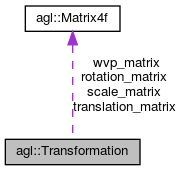
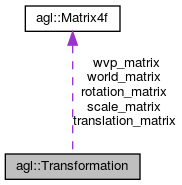
Fix rotation bug

Changed region(s): [[0.0275, 0.0, 0.9615, 0.9942]]

diff --git a/documentation/html/Transformation_8h_source.html b/documentation/html/Transformation_8h_source.html
@@ -90,7 +90,8 @@ $(document).ready(function(){initNavTree('Transformation_8h_source.html','');});
 <div class="title">Transformation.h</div>  </div>
 </div><!--header-->
 <div class="contents">
-<div class="fragment"><div class="line"><a name="l00001"></a><span class="lineno">    1</span>&#160;<span class="preprocessor">#ifndef TRASNFORMATION_H</span></div><div class="line"><a name="l00002"></a><span class="lineno">    2</span>&#160;<span class="preprocessor">#define TRANSFORMATION_H</span></div><div class="line"><a name="l00003"></a><span class="lineno">    3</span>&#160;</div><div class="line"><a name="l00004"></a><span class="lineno">    4</span>&#160;<span class="preprocessor">#include &quot;Point.h&quot;</span></div><div class="line"><a name="l00005"></a><span class="lineno">    5</span>&#160;<span class="preprocessor">#include &quot;Matrix4f.h&quot;</span></div><div class="line"><a name="l00006"></a><span class="lineno">    6</span>&#160;</div><div class="line"><a name="l00007"></a><span class="lineno">    7</span>&#160;<span class="keyword">namespace </span>agl {</div><div class="line"><a name="l00008"></a><span class="lineno"><a class="line" href="classagl_1_1Transformation.html">    8</a></span>&#160;  <span class="keyword">class </span><a class="code" href="classagl_1_1Transformation.html">Transformation</a> {</div><div class="line"><a name="l00009"></a><span class="lineno">    9</span>&#160;    <span class="keyword">public</span>:</div><div class="line"><a name="l00013"></a><span class="lineno"><a class="line" href="classagl_1_1Transformation.html#a214021890dbcbf0ffa9dd153081c097a">   13</a></span>&#160;    <a class="code" href="classagl_1_1Matrix4f.html">Matrix4f</a> <a class="code" href="classagl_1_1Transformation.html#a214021890dbcbf0ffa9dd153081c097a">translation_matrix</a>;</div><div class="line"><a name="l00014"></a><span class="lineno">   14</span>&#160;    </div><div class="line"><a name="l00018"></a><span class="lineno"><a class="line" href="classagl_1_1Transformation.html#a986f0d47080a364fc7a2b098eb1b16a7">   18</a></span>&#160;    <a class="code" href="classagl_1_1Matrix4f.html">Matrix4f</a> <a class="code" href="classagl_1_1Transformation.html#a986f0d47080a364fc7a2b098eb1b16a7">scale_matrix</a>;</div><div class="line"><a name="l00019"></a><span class="lineno">   19</span>&#160;    </div><div class="line"><a name="l00020"></a><span class="lineno">   20</span>&#160;    <a class="code" href="classagl_1_1Matrix4f.html">Matrix4f</a> rotation_matrix;</div><div class="line"><a name="l00021"></a><span class="lineno">   21</span>&#160;    </div><div class="line"><a name="l00022"></a><span class="lineno">   22</span>&#160;    <a class="code" href="classagl_1_1Matrix4f.html">Matrix4f</a> wvp_matrix;</div><div class="line"><a name="l00023"></a><span class="lineno">   23</span>&#160;    </div><div class="line"><a name="l00024"></a><span class="lineno">   24</span>&#160;    <a class="code" href="classagl_1_1Transformation.html">Transformation</a>();</div><div class="line"><a name="l00025"></a><span class="lineno">   25</span>&#160;    </div><div class="line"><a name="l00026"></a><span class="lineno">   26</span>&#160;    <span class="keywordtype">bool</span> init();</div><div class="line"><a name="l00027"></a><span class="lineno">   27</span>&#160;    </div><div class="line"><a name="l00028"></a><span class="lineno">   28</span>&#160;    <span class="keywordtype">void</span> translate(<a class="code" href="classagl_1_1Point.html">Point</a> p);</div><div class="line"><a name="l00029"></a><span class="lineno">   29</span>&#160;    </div><div class="line"><a name="l00030"></a><span class="lineno">   30</span>&#160;    <span class="keywordtype">void</span> scale(<a class="code" href="classagl_1_1Point.html">Point</a> p);</div><div class="line"><a name="l00031"></a><span class="lineno">   31</span>&#160;    </div><div class="line"><a name="l00032"></a><span class="lineno">   32</span>&#160;    <span class="keywordtype">void</span> scale(<span class="keywordtype">float</span> f);</div><div class="line"><a name="l00033"></a><span class="lineno">   33</span>&#160;    </div><div class="line"><a name="l00034"></a><span class="lineno">   34</span>&#160;    <span class="keywordtype">void</span> rotate(<a class="code" href="classagl_1_1Point.html">Point</a> p);</div><div class="line"><a name="l00035"></a><span class="lineno">   35</span>&#160;    </div><div class="line"><a name="l00036"></a><span class="lineno">   36</span>&#160;    <span class="keywordtype">void</span> calculate_wvp_matrix(<a class="code" href="classagl_1_1Matrix4f.html">Matrix4f</a>* vp_matrix);</div><div class="line"><a name="l00037"></a><span class="lineno">   37</span>&#160;  };</div><div class="line"><a name="l00038"></a><span class="lineno">   38</span>&#160;}</div><div class="line"><a name="l00039"></a><span class="lineno">   39</span>&#160;</div><div class="line"><a name="l00040"></a><span class="lineno">   40</span>&#160;<span class="preprocessor">#endif</span></div><div class="ttc" id="classagl_1_1Point_html"><div class="ttname"><a href="classagl_1_1Point.html">agl::Point</a></div><div class="ttdef"><b>Definition:</b> Point.h:5</div></div>
+<div class="fragment"><div class="line"><a name="l00001"></a><span class="lineno">    1</span>&#160;<span class="preprocessor">#ifndef TRASNFORMATION_H</span></div><div class="line"><a name="l00002"></a><span class="lineno">    2</span>&#160;<span class="preprocessor">#define TRANSFORMATION_H</span></div><div class="line"><a name="l00003"></a><span class="lineno">    3</span>&#160;</div><div class="line"><a name="l00004"></a><span class="lineno">    4</span>&#160;<span class="preprocessor">#include &quot;Point.h&quot;</span></div><div class="line"><a name="l00005"></a><span class="lineno">    5</span>&#160;<span class="preprocessor">#include &quot;Matrix4f.h&quot;</span></div><div class="line"><a name="l00006"></a><span class="lineno">    6</span>&#160;</div><div class="line"><a name="l00007"></a><span class="lineno">    7</span>&#160;<span class="keyword">namespace </span>agl {</div><div class="line"><a name="l00008"></a><span class="lineno"><a class="line" href="classagl_1_1Transformation.html">    8</a></span>&#160;  <span class="keyword">class </span><a class="code" href="classagl_1_1Transformation.html">Transformation</a> {</div><div class="line"><a name="l00009"></a><span class="lineno">    9</span>&#160;    <span class="keyword">public</span>:</div><div class="line"><a name="l00013"></a><span class="lineno"><a class="line" href="classagl_1_1Transformation.html#a214021890dbcbf0ffa9dd153081c097a">   13</a></span>&#160;    <a class="code" href="classagl_1_1Matrix4f.html">Matrix4f</a> <a class="code" href="classagl_1_1Transformation.html#a214021890dbcbf0ffa9dd153081c097a">translation_matrix</a>;</div><div class="line"><a name="l00014"></a><span class="lineno">   14</span>&#160;    </div><div class="line"><a name="l00018"></a><span class="lineno"><a class="line" href="classagl_1_1Transformation.html#a986f0d47080a364fc7a2b098eb1b16a7">   18</a></span>&#160;    <a class="code" href="classagl_1_1Matrix4f.html">Matrix4f</a> <a class="code" href="classagl_1_1Transformation.html#a986f0d47080a364fc7a2b098eb1b16a7">scale_matrix</a>;</div><div class="line"><a name="l00019"></a><span class="lineno">   19</span>&#160;    </div><div class="line"><a name="l00023"></a><span class="lineno"><a class="line" href="classagl_1_1Transformation.html#a2dc5ac8d2ac0bc80d6e95183eec1fbdc">   23</a></span>&#160;    <a class="code" href="classagl_1_1Matrix4f.html">Matrix4f</a> <a class="code" href="classagl_1_1Transformation.html#a2dc5ac8d2ac0bc80d6e95183eec1fbdc">rotation_matrix</a>;</div><div class="line"><a name="l00024"></a><span class="lineno">   24</span>&#160;</div><div class="line"><a name="l00025"></a><span class="lineno">   25</span>&#160;    <a class="code" href="classagl_1_1Matrix4f.html">Matrix4f</a> world_matrix;</div><div class="line"><a name="l00026"></a><span class="lineno">   26</span>&#160;    </div><div class="line"><a name="l00027"></a><span class="lineno">   27</span>&#160;    <a class="code" href="classagl_1_1Matrix4f.html">Matrix4f</a> wvp_matrix;</div><div class="line"><a name="l00028"></a><span class="lineno">   28</span>&#160;    </div><div class="line"><a name="l00029"></a><span class="lineno">   29</span>&#160;    <a class="code" href="classagl_1_1Transformation.html">Transformation</a>();</div><div class="line"><a name="l00030"></a><span class="lineno">   30</span>&#160;    </div><div class="line"><a name="l00031"></a><span class="lineno">   31</span>&#160;    <span class="keywordtype">bool</span> init();</div><div class="line"><a name="l00032"></a><span class="lineno">   32</span>&#160;    </div><div class="line"><a name="l00033"></a><span class="lineno">   33</span>&#160;    <span class="keywordtype">void</span> translate(<a class="code" href="classagl_1_1Point.html">Point</a> p);</div><div class="line"><a name="l00034"></a><span class="lineno">   34</span>&#160;    </div><div class="line"><a name="l00035"></a><span class="lineno">   35</span>&#160;    <span class="keywordtype">void</span> scale(<a class="code" href="classagl_1_1Point.html">Point</a> p);</div><div class="line"><a name="l00036"></a><span class="lineno">   36</span>&#160;    </div><div class="line"><a name="l00037"></a><span class="lineno">   37</span>&#160;    <span class="keywordtype">void</span> scale(<span class="keywordtype">float</span> f);</div><div class="line"><a name="l00038"></a><span class="lineno">   38</span>&#160;    </div><div class="line"><a name="l00039"></a><span class="lineno">   39</span>&#160;    <span class="keywordtype">void</span> rotate(<a class="code" href="classagl_1_1Point.html">Point</a> p);</div><div class="line"><a name="l00040"></a><span class="lineno">   40</span>&#160;    </div><div class="line"><a name="l00041"></a><span class="lineno">   41</span>&#160;    <span class="keywordtype">void</span> calculate_world_matrix();</div><div class="line"><a name="l00042"></a><span class="lineno">   42</span>&#160;    </div><div class="line"><a name="l00043"></a><span class="lineno">   43</span>&#160;    <span class="keywordtype">void</span> calculate_wvp_matrix(<a class="code" href="classagl_1_1Matrix4f.html">Matrix4f</a>* vp_matrix);</div><div class="line"><a name="l00044"></a><span class="lineno">   44</span>&#160;  };</div><div class="line"><a name="l00045"></a><span class="lineno">   45</span>&#160;}</div><div class="line"><a name="l00046"></a><span class="lineno">   46</span>&#160;</div><div class="line"><a name="l00047"></a><span class="lineno">   47</span>&#160;<span class="preprocessor">#endif</span></div><div class="ttc" id="classagl_1_1Point_html"><div class="ttname"><a href="classagl_1_1Point.html">agl::Point</a></div><div class="ttdef"><b>Definition:</b> Point.h:5</div></div>
+<div class="ttc" id="classagl_1_1Transformation_html_a2dc5ac8d2ac0bc80d6e95183eec1fbdc"><div class="ttname"><a href="classagl_1_1Transformation.html#a2dc5ac8d2ac0bc80d6e95183eec1fbdc">agl::Transformation::rotation_matrix</a></div><div class="ttdeci">Matrix4f rotation_matrix</div><div class="ttdef"><b>Definition:</b> Transformation.h:23</div></div>
 <div class="ttc" id="classagl_1_1Transformation_html_a214021890dbcbf0ffa9dd153081c097a"><div class="ttname"><a href="classagl_1_1Transformation.html#a214021890dbcbf0ffa9dd153081c097a">agl::Transformation::translation_matrix</a></div><div class="ttdeci">Matrix4f translation_matrix</div><div class="ttdef"><b>Definition:</b> Transformation.h:13</div></div>
 <div class="ttc" id="classagl_1_1Transformation_html"><div class="ttname"><a href="classagl_1_1Transformation.html">agl::Transformation</a></div><div class="ttdef"><b>Definition:</b> Transformation.h:8</div></div>
 <div class="ttc" id="classagl_1_1Matrix4f_html"><div class="ttname"><a href="classagl_1_1Matrix4f.html">agl::Matrix4f</a></div><div class="ttdef"><b>Definition:</b> Matrix4f.h:5</div></div>

diff --git a/documentation/html/classagl_1_1Transformation-members.html b/documentation/html/classagl_1_1Transformation-members.html
@@ -93,16 +93,18 @@ $(document).ready(function(){initNavTree('classagl_1_1Transformation.html','');}
 
 <p>This is the complete list of members for <a class="el" href="classagl_1_1Transformation.html">agl::Transformation</a>, including all inherited members.</p>
 <table class="directory">
-  <tr bgcolor="#f0f0f0" class="even"><td class="entry"><b>calculate_wvp_matrix</b>(Matrix4f *vp_matrix) (defined in <a class="el" href="classagl_1_1Transformation.html">agl::Transformation</a>)</td><td class="entry"><a class="el" href="classagl_1_1Transformation.html">agl::Transformation</a></td><td class="entry"></td></tr>
-  <tr bgcolor="#f0f0f0"><td class="entry"><b>init</b>() (defined in <a class="el" href="classagl_1_1Transformation.html">agl::Transformation</a>)</td><td class="entry"><a class="el" href="classagl_1_1Transformation.html">agl::Transformation</a></td><td class="entry"></td></tr>
-  <tr bgcolor="#f0f0f0" class="even"><td class="entry"><b>rotate</b>(Point p) (defined in <a class="el" href="classagl_1_1Transformation.html">agl::Transformation</a>)</td><td class="entry"><a class="el" href="classagl_1_1Transformation.html">agl::Transformation</a></td><td class="entry"></td></tr>
-  <tr bgcolor="#f0f0f0"><td class="entry"><b>rotation_matrix</b> (defined in <a class="el" href="classagl_1_1Transformation.html">agl::Transformation</a>)</td><td class="entry"><a class="el" href="classagl_1_1Transformation.html">agl::Transformation</a></td><td class="entry"></td></tr>
-  <tr bgcolor="#f0f0f0" class="even"><td class="entry"><b>scale</b>(Point p) (defined in <a class="el" href="classagl_1_1Transformation.html">agl::Transformation</a>)</td><td class="entry"><a class="el" href="classagl_1_1Transformation.html">agl::Transformation</a></td><td class="entry"></td></tr>
-  <tr bgcolor="#f0f0f0"><td class="entry"><b>scale</b>(float f) (defined in <a class="el" href="classagl_1_1Transformation.html">agl::Transformation</a>)</td><td class="entry"><a class="el" href="classagl_1_1Transformation.html">agl::Transformation</a></td><td class="entry"></td></tr>
-  <tr class="even"><td class="entry"><a class="el" href="classagl_1_1Transformation.html#a986f0d47080a364fc7a2b098eb1b16a7">scale_matrix</a></td><td class="entry"><a class="el" href="classagl_1_1Transformation.html">agl::Transformation</a></td><td class="entry"></td></tr>
-  <tr bgcolor="#f0f0f0"><td class="entry"><b>Transformation</b>() (defined in <a class="el" href="classagl_1_1Transformation.html">agl::Transformation</a>)</td><td class="entry"><a class="el" href="classagl_1_1Transformation.html">agl::Transformation</a></td><td class="entry"></td></tr>
-  <tr bgcolor="#f0f0f0" class="even"><td class="entry"><b>translate</b>(Point p) (defined in <a class="el" href="classagl_1_1Transformation.html">agl::Transformation</a>)</td><td class="entry"><a class="el" href="classagl_1_1Transformation.html">agl::Transformation</a></td><td class="entry"></td></tr>
-  <tr><td class="entry"><a class="el" href="classagl_1_1Transformation.html#a214021890dbcbf0ffa9dd153081c097a">translation_matrix</a></td><td class="entry"><a class="el" href="classagl_1_1Transformation.html">agl::Transformation</a></td><td class="entry"></td></tr>
+  <tr bgcolor="#f0f0f0" class="even"><td class="entry"><b>calculate_world_matrix</b>() (defined in <a class="el" href="classagl_1_1Transformation.html">agl::Transformation</a>)</td><td class="entry"><a class="el" href="classagl_1_1Transformation.html">agl::Transformation</a></td><td class="entry"></td></tr>
+  <tr bgcolor="#f0f0f0"><td class="entry"><b>calculate_wvp_matrix</b>(Matrix4f *vp_matrix) (defined in <a class="el" href="classagl_1_1Transformation.html">agl::Transformation</a>)</td><td class="entry"><a class="el" href="classagl_1_1Transformation.html">agl::Transformation</a></td><td class="entry"></td></tr>
+  <tr bgcolor="#f0f0f0" class="even"><td class="entry"><b>init</b>() (defined in <a class="el" href="classagl_1_1Transformation.html">agl::Transformation</a>)</td><td class="entry"><a class="el" href="classagl_1_1Transformation.html">agl::Transformation</a></td><td class="entry"></td></tr>
+  <tr bgcolor="#f0f0f0"><td class="entry"><b>rotate</b>(Point p) (defined in <a class="el" href="classagl_1_1Transformation.html">agl::Transformation</a>)</td><td class="entry"><a class="el" href="classagl_1_1Transformation.html">agl::Transformation</a></td><td class="entry"></td></tr>
+  <tr class="even"><td class="entry"><a class="el" href="classagl_1_1Transformation.html#a2dc5ac8d2ac0bc80d6e95183eec1fbdc">rotation_matrix</a></td><td class="entry"><a class="el" href="classagl_1_1Transformation.html">agl::Transformation</a></td><td class="entry"></td></tr>
+  <tr bgcolor="#f0f0f0"><td class="entry"><b>scale</b>(Point p) (defined in <a class="el" href="classagl_1_1Transformation.html">agl::Transformation</a>)</td><td class="entry"><a class="el" href="classagl_1_1Transformation.html">agl::Transformation</a></td><td class="entry"></td></tr>
+  <tr bgcolor="#f0f0f0" class="even"><td class="entry"><b>scale</b>(float f) (defined in <a class="el" href="classagl_1_1Transformation.html">agl::Transformation</a>)</td><td class="entry"><a class="el" href="classagl_1_1Transformation.html">agl::Transformation</a></td><td class="entry"></td></tr>
+  <tr><td class="entry"><a class="el" href="classagl_1_1Transformation.html#a986f0d47080a364fc7a2b098eb1b16a7">scale_matrix</a></td><td class="entry"><a class="el" href="classagl_1_1Transformation.html">agl::Transformation</a></td><td class="entry"></td></tr>
+  <tr bgcolor="#f0f0f0" class="even"><td class="entry"><b>Transformation</b>() (defined in <a class="el" href="classagl_1_1Transformation.html">agl::Transformation</a>)</td><td class="entry"><a class="el" href="classagl_1_1Transformation.html">agl::Transformation</a></td><td class="entry"></td></tr>
+  <tr bgcolor="#f0f0f0"><td class="entry"><b>translate</b>(Point p) (defined in <a class="el" href="classagl_1_1Transformation.html">agl::Transformation</a>)</td><td class="entry"><a class="el" href="classagl_1_1Transformation.html">agl::Transformation</a></td><td class="entry"></td></tr>
+  <tr class="even"><td class="entry"><a class="el" href="classagl_1_1Transformation.html#a214021890dbcbf0ffa9dd153081c097a">translation_matrix</a></td><td class="entry"><a class="el" href="classagl_1_1Transformation.html">agl::Transformation</a></td><td class="entry"></td></tr>
+  <tr bgcolor="#f0f0f0"><td class="entry"><b>world_matrix</b> (defined in <a class="el" href="classagl_1_1Transformation.html">agl::Transformation</a>)</td><td class="entry"><a class="el" href="classagl_1_1Transformation.html">agl::Transformation</a></td><td class="entry"></td></tr>
   <tr bgcolor="#f0f0f0" class="even"><td class="entry"><b>wvp_matrix</b> (defined in <a class="el" href="classagl_1_1Transformation.html">agl::Transformation</a>)</td><td class="entry"><a class="el" href="classagl_1_1Transformation.html">agl::Transformation</a></td><td class="entry"></td></tr>
 </table></div><!-- contents -->
 </div><!-- doc-content -->

diff --git a/documentation/html/classagl_1_1Transformation.html b/documentation/html/classagl_1_1Transformation.html
@@ -99,7 +99,7 @@ Collaboration diagram for agl::Transformation:</div>
 <div class="dyncontent">
 <div class="center"><img src="classagl_1_1Transformation__coll__graph.png" border="0" usemap="#agl_1_1Transformation_coll__map" alt="Collaboration graph"/></div>
 <map name="agl_1_1Transformation_coll__map" id="agl_1_1Transformation_coll__map">
-<area shape="rect"  title=" " alt="" coords="5,139,140,165"/>
+<area shape="rect"  title=" " alt="" coords="5,153,140,180"/>
 <area shape="rect"  href="classagl_1_1Matrix4f.html" title=" " alt="" coords="25,5,120,32"/>
 </map>
 <center><span class="legend">[<a target="top" href="graph_legend.html">legend</a>]</span></center></div>
@@ -121,6 +121,9 @@ void&#160;</td><td class="memItemRight" valign="bottom"><b>scale</b> (float f)</
 <tr class="memitem:ad313b2977a91aae7879c816f8cd00dc7"><td class="memItemLeft" align="right" valign="top"><a id="ad313b2977a91aae7879c816f8cd00dc7"></a>
 void&#160;</td><td class="memItemRight" valign="bottom"><b>rotate</b> (<a class="el" href="classagl_1_1Point.html">Point</a> p)</td></tr>
 <tr class="separator:ad313b2977a91aae7879c816f8cd00dc7"><td class="memSeparator" colspan="2">&#160;</td></tr>
+<tr class="memitem:a8b45a51aea95901c9a82730a807795a7"><td class="memItemLeft" align="right" valign="top"><a id="a8b45a51aea95901c9a82730a807795a7"></a>
+void&#160;</td><td class="memItemRight" valign="bottom"><b>calculate_world_matrix</b> ()</td></tr>
+<tr class="separator:a8b45a51aea95901c9a82730a807795a7"><td class="memSeparator" colspan="2">&#160;</td></tr>
 <tr class="memitem:adf068efbc01592a6fbe5e28660953dec"><td class="memItemLeft" align="right" valign="top"><a id="adf068efbc01592a6fbe5e28660953dec"></a>
 void&#160;</td><td class="memItemRight" valign="bottom"><b>calculate_wvp_matrix</b> (<a class="el" href="classagl_1_1Matrix4f.html">Matrix4f</a> *vp_matrix)</td></tr>
 <tr class="separator:adf068efbc01592a6fbe5e28660953dec"><td class="memSeparator" colspan="2">&#160;</td></tr>
@@ -131,14 +134,31 @@ Public Attributes</h2></td></tr>
 <tr class="separator:a214021890dbcbf0ffa9dd153081c097a"><td class="memSeparator" colspan="2">&#160;</td></tr>
 <tr class="memitem:a986f0d47080a364fc7a2b098eb1b16a7"><td class="memItemLeft" align="right" valign="top"><a class="el" href="classagl_1_1Matrix4f.html">Matrix4f</a>&#160;</td><td class="memItemRight" valign="bottom"><a class="el" href="classagl_1_1Transformation.html#a986f0d47080a364fc7a2b098eb1b16a7">scale_matrix</a></td></tr>
 <tr class="separator:a986f0d47080a364fc7a2b098eb1b16a7"><td class="memSeparator" colspan="2">&#160;</td></tr>
-<tr class="memitem:a2dc5ac8d2ac0bc80d6e95183eec1fbdc"><td class="memItemLeft" align="right" valign="top"><a id="a2dc5ac8d2ac0bc80d6e95183eec1fbdc"></a>
-<a class="el" href="classagl_1_1Matrix4f.html">Matrix4f</a>&#160;</td><td class="memItemRight" valign="bottom"><b>rotation_matrix</b></td></tr>
+<tr class="memitem:a2dc5ac8d2ac0bc80d6e95183eec1fbdc"><td class="memItemLeft" align="right" valign="top"><a class="el" href="classagl_1_1Matrix4f.html">Matrix4f</a>&#160;</td><td class="memItemRight" valign="bottom"><a class="el" href="classagl_1_1Transformation.html#a2dc5ac8d2ac0bc80d6e95183eec1fbdc">rotation_matrix</a></td></tr>
 <tr class="separator:a2dc5ac8d2ac0bc80d6e95183eec1fbdc"><td class="memSeparator" colspan="2">&#160;</td></tr>
+<tr class="memitem:a5f25553543cf8713c79d8a74bca29d2c"><td class="memItemLeft" align="right" valign="top"><a id="a5f25553543cf8713c79d8a74bca29d2c"></a>
+<a class="el" href="classagl_1_1Matrix4f.html">Matrix4f</a>&#160;</td><td class="memItemRight" valign="bottom"><b>world_matrix</b></td></tr>
+<tr class="separator:a5f25553543cf8713c79d8a74bca29d2c"><td class="memSeparator" colspan="2">&#160;</td></tr>
 <tr class="memitem:a59c2efee483f4fb596ce820a1d6a689b"><td class="memItemLeft" align="right" valign="top"><a id="a59c2efee483f4fb596ce820a1d6a689b"></a>
 <a class="el" href="classagl_1_1Matrix4f.html">Matrix4f</a>&#160;</td><td class="memItemRight" valign="bottom"><b>wvp_matrix</b></td></tr>
 <tr class="separator:a59c2efee483f4fb596ce820a1d6a689b"><td class="memSeparator" colspan="2">&#160;</td></tr>
 </table>
 <h2 class="groupheader">Member Data Documentation</h2>
+<a id="a2dc5ac8d2ac0bc80d6e95183eec1fbdc"></a>
+<h2 class="memtitle"><span class="permalink"><a href="#a2dc5ac8d2ac0bc80d6e95183eec1fbdc">&#9670;&nbsp;</a></span>rotation_matrix</h2>
+
+<div class="memitem">
+<div class="memproto">
+      <table class="memname">
+        <tr>
+          <td class="memname"><a class="el" href="classagl_1_1Matrix4f.html">Matrix4f</a> agl::Transformation::rotation_matrix</td>
+        </tr>
+      </table>
+</div><div class="memdoc">
+<p>Rotation </p>
+
+</div>
+</div>
 <a id="a986f0d47080a364fc7a2b098eb1b16a7"></a>
 <h2 class="memtitle"><span class="permalink"><a href="#a986f0d47080a364fc7a2b098eb1b16a7">&#9670;&nbsp;</a></span>scale_matrix</h2>
 

diff --git a/documentation/html/classagl_1_1Transformation.js b/documentation/html/classagl_1_1Transformation.js
@@ -1,6 +1,7 @@
 var classagl_1_1Transformation =
 [
     [ "Transformation", "classagl_1_1Transformation.html#a1c275e848d066e8bbf95728674f640ae", null ],
+    [ "calculate_world_matrix", "classagl_1_1Transformation.html#a8b45a51aea95901c9a82730a807795a7", null ],
     [ "calculate_wvp_matrix", "classagl_1_1Transformation.html#adf068efbc01592a6fbe5e28660953dec", null ],
     [ "init", "classagl_1_1Transformation.html#ae8d0487e6f9e427027fc3e86179b9666", null ],
     [ "rotate", "classagl_1_1Transformation.html#ad313b2977a91aae7879c816f8cd00dc7", null ],
@@ -10,5 +11,6 @@ var classagl_1_1Transformation =
     [ "rotation_matrix", "classagl_1_1Transformation.html#a2dc5ac8d2ac0bc80d6e95183eec1fbdc", null ],
     [ "scale_matrix", "classagl_1_1Transformation.html#a986f0d47080a364fc7a2b098eb1b16a7", null ],
     [ "translation_matrix", "classagl_1_1Transformation.html#a214021890dbcbf0ffa9dd153081c097a", null ],
+    [ "world_matrix", "classagl_1_1Transformation.html#a5f25553543cf8713c79d8a74bca29d2c", null ],
     [ "wvp_matrix", "classagl_1_1Transformation.html#a59c2efee483f4fb596ce820a1d6a689b", null ]
 ];

diff --git a/src/Transformation.cpp b/src/Transformation.cpp
@@ -42,24 +42,28 @@ namespace agl {
     rx[2][0] = 0.0; rx[2][1] = sin(p.x); rx[2][2] = cos(p.x);  rx[2][3] = 0.0;
     rx[3][0] = 0.0; rx[3][1] = 0.0;      rx[3][2] = 0.0;       rx[3][3] = 1.0;
     
-    ry[0][0] = cos(p.y); ry[0][1] = 0.0; ry[0][2] = -sin(p.y); ry[0][3] = 0.0;
+    ry[0][0] = cos(p.y); ry[0][1] = 0.0; ry[0][2] = sin(p.y);  ry[0][3] = 0.0;
     ry[1][0] = 0.0;      ry[1][1] = 1.0; ry[1][2] = 0.0;       ry[1][3] = 0.0;
-    ry[2][0] = sin(p.y); ry[2][1] = 0.0; ry[2][2] = cos(p.y);  ry[2][3] = 0.0;
+    ry[2][0] = -sin(p.y);ry[2][1] = 0.0; ry[2][2] = cos(p.y);  ry[2][3] = 0.0;
     ry[3][0] = 0.0;      ry[3][1] = 0.0; ry[3][2] = 0.0;       ry[3][3] = 1.0;
 
     rz[0][0] = cos(p.z); rz[0][1] = -sin(p.z); rz[0][2] = 0.0; rz[0][3] = 0.0;
     rz[1][0] = sin(p.z); rz[1][1] = cos(p.z);  rz[1][2] = 0.0; rz[1][3] = 0.0;
-    rz[2][0] = 0.0;      rz[2][1] = 0.0;       rz[2][2] = 0.0; rz[2][3] = 0.0;
+    rz[2][0] = 0.0;      rz[2][1] = 0.0;       rz[2][2] = 1.0; rz[2][3] = 0.0;
     rz[3][0] = 0.0;      rz[3][1] = 0.0;       rz[3][2] = 0.0; rz[3][3] = 1.0;
     
     rotation_matrix = rz * ry * rx;
   }
   
-  void Transformation::calculate_wvp_matrix(Matrix4f* vp_matrix) {    
-    wvp_matrix = *vp_matrix * 
-                 translation_matrix * 
-                 rotation_matrix * 
-                 scale_matrix;
+  void Transformation::calculate_world_matrix() {
+    world_matrix = translation_matrix * 
+                   rotation_matrix * 
+                   scale_matrix;
+  }
+  
+  void Transformation::calculate_wvp_matrix(Matrix4f* vp_matrix) {
+    calculate_world_matrix();    
+    wvp_matrix = *vp_matrix * world_matrix;
   }
 }
 

diff --git a/include/Transformation.h b/include/Transformation.h
@@ -17,7 +17,12 @@ namespace agl {
      */
     Matrix4f scale_matrix;
     
+    /**
+     * Rotation
+     */
     Matrix4f rotation_matrix;
+
+    Matrix4f world_matrix;
     
     Matrix4f wvp_matrix;
     
@@ -32,6 +37,8 @@ namespace agl {
     void scale(float f);
     
     void rotate(Point p);
+    
+    void calculate_world_matrix();
     
     void calculate_wvp_matrix(Matrix4f* vp_matrix);
   };
